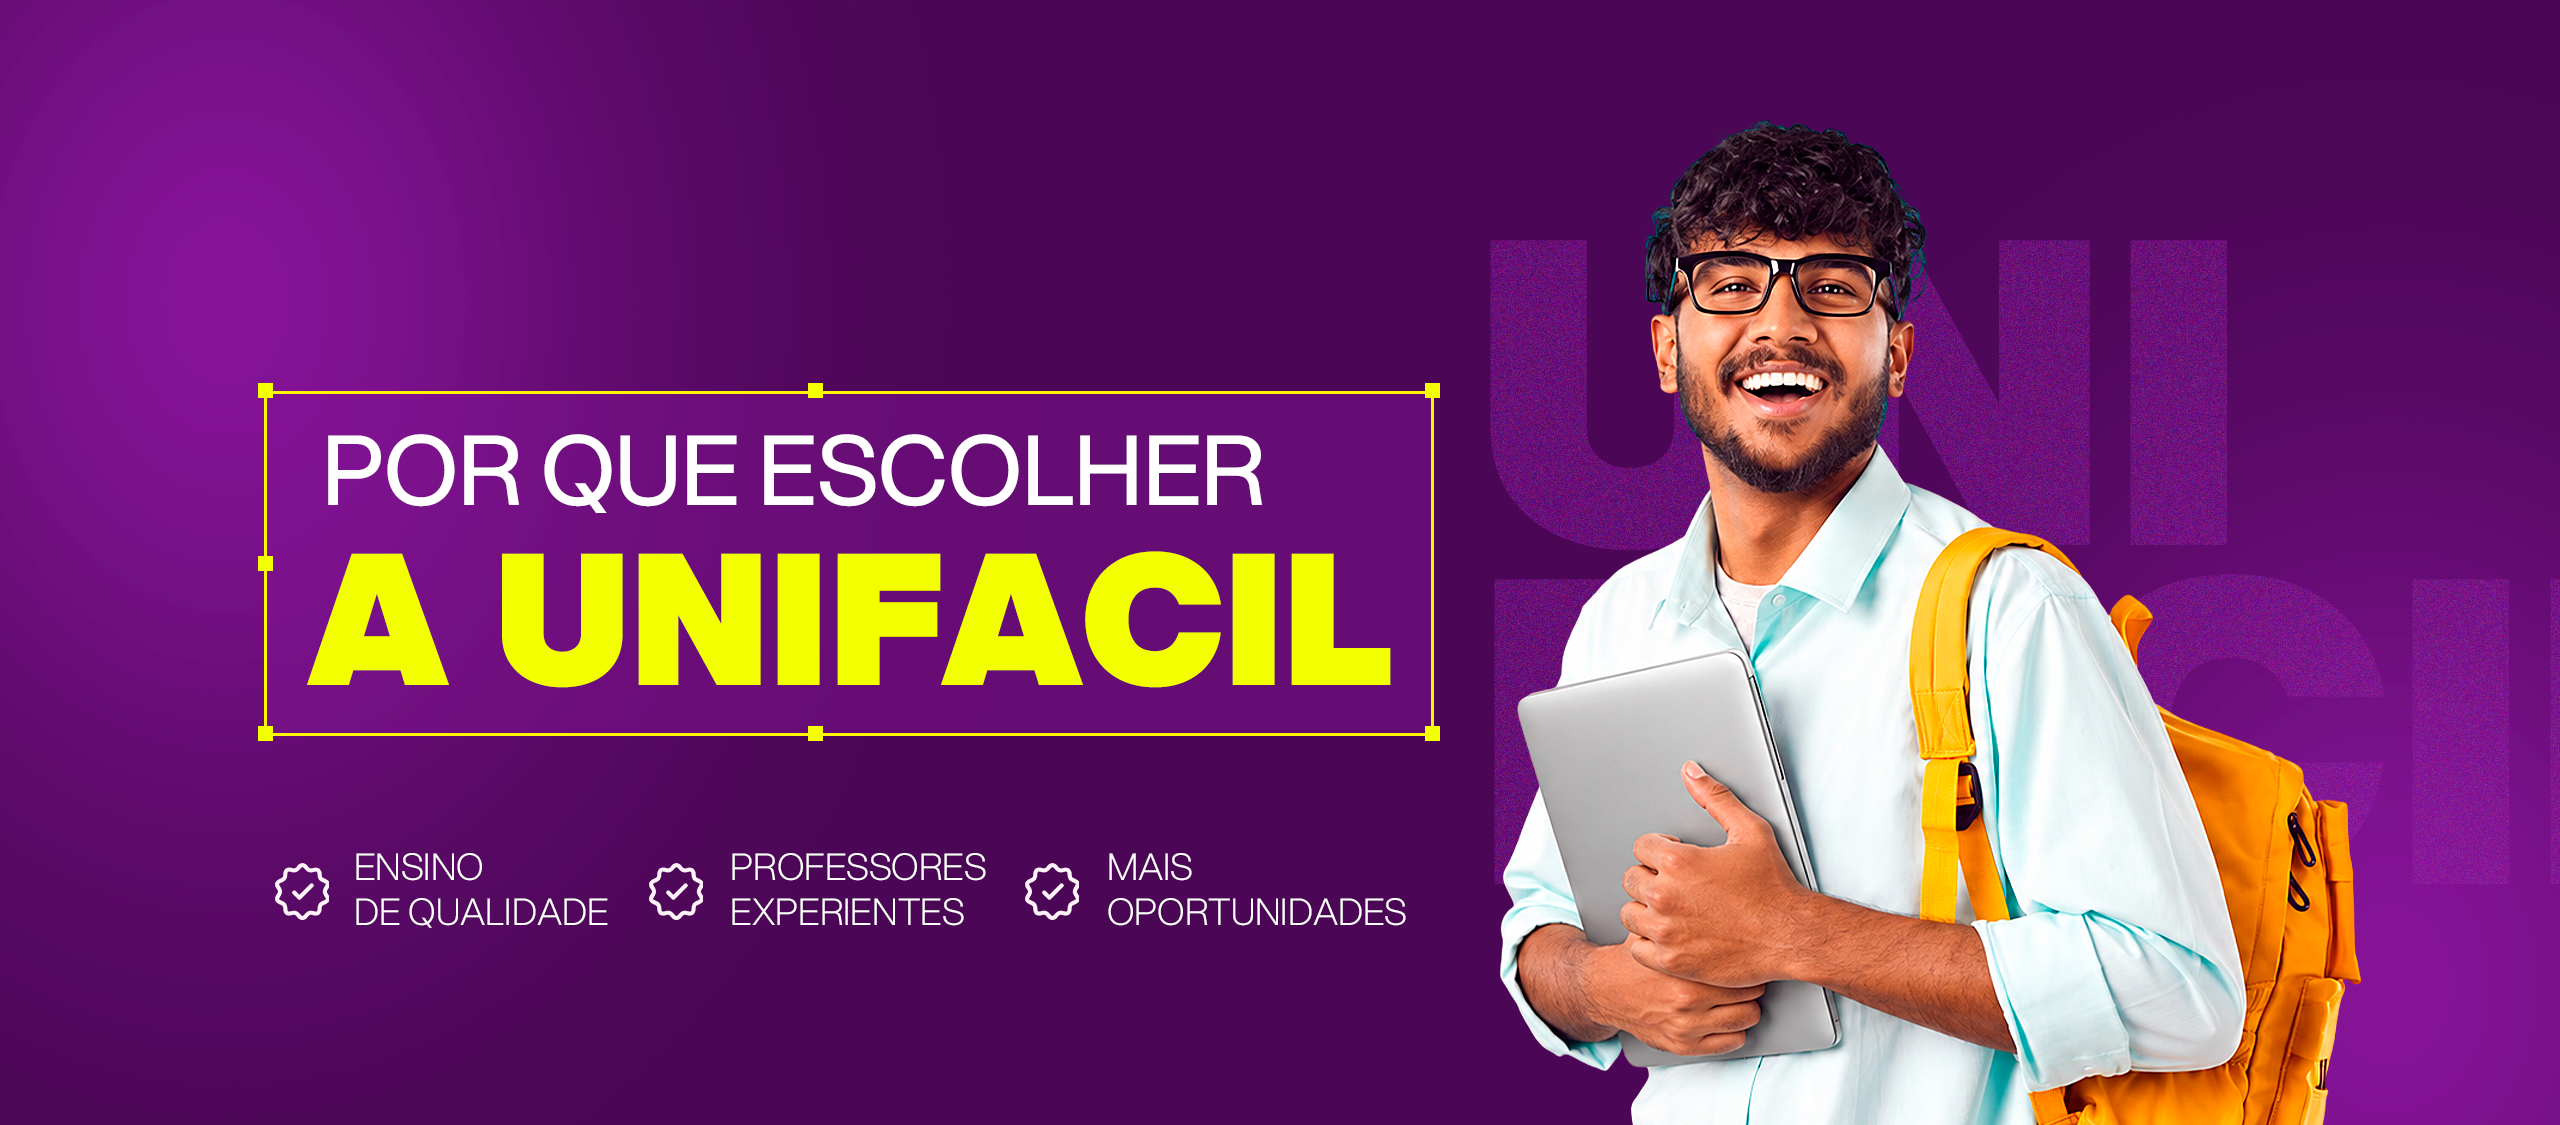
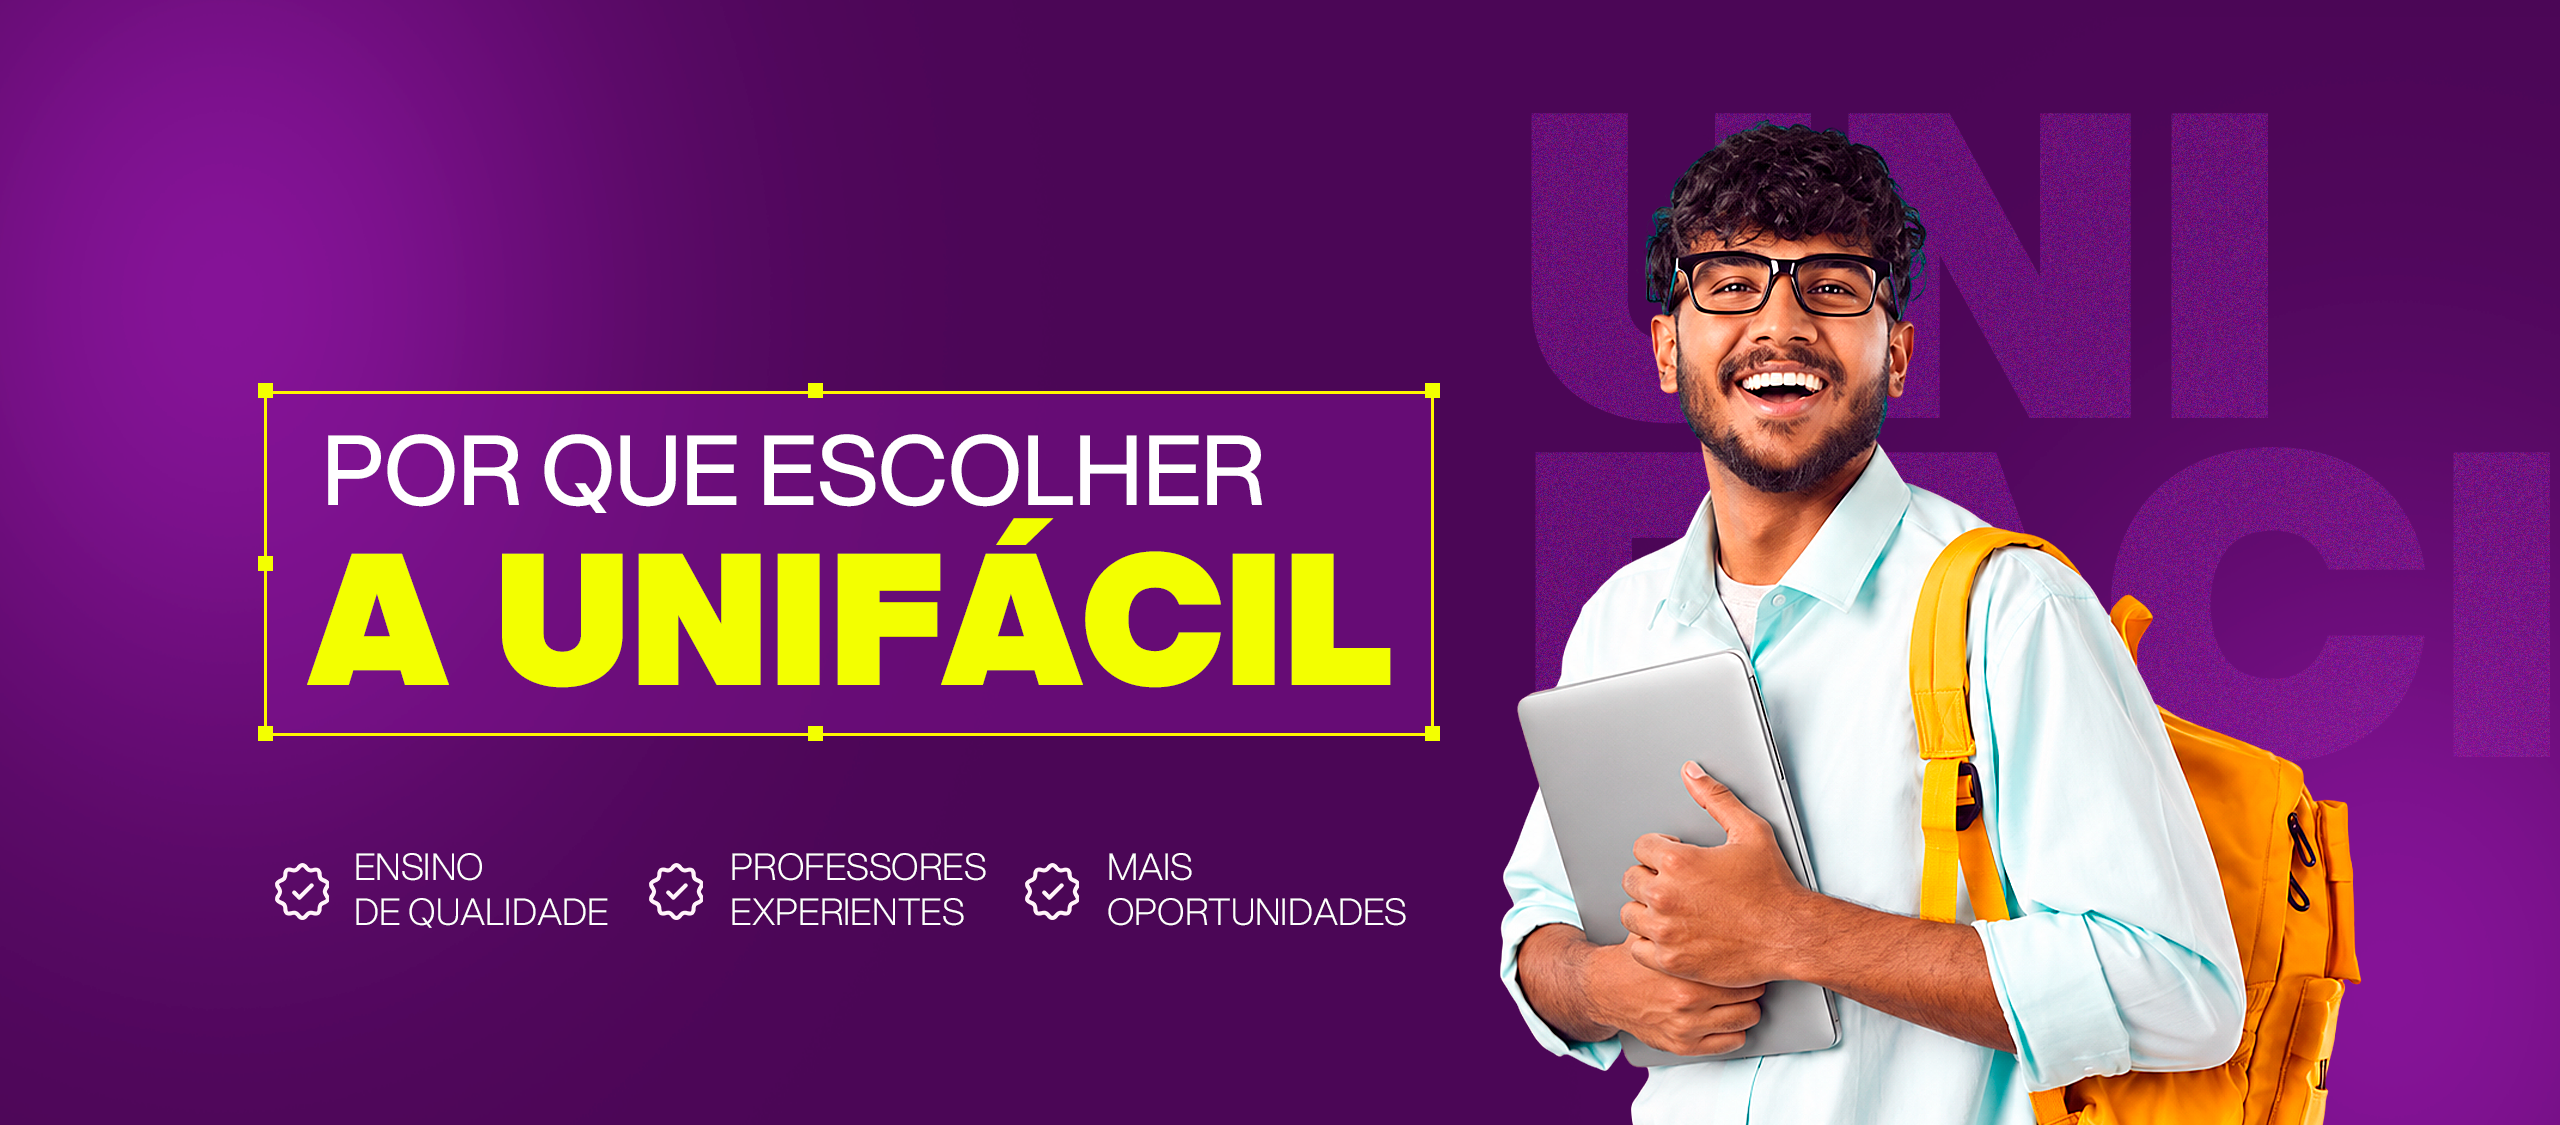
capacursos

Changed region(s): [[0.5625, 0.0933, 1.0, 0.7778], [0.375, 0.4667, 0.4062, 0.4978]]

diff --git a/components/PorQueEscolher.tsx b/components/PorQueEscolher.tsx
@@ -153,7 +153,7 @@ export default function PorQueEscolher() {
         <div className="relative z-[2] mt-6 hidden justify-center sm:flex sm:h-[380px] lg:absolute lg:inset-y-0 lg:left-[50%] lg:right-[16.5%] lg:mt-0 lg:block lg:h-auto lg:w-auto">
           <div className="relative h-[300px] w-[230px] sm:h-full sm:w-full lg:h-full lg:w-full">
             <Image
-              src="/images/pessoacard-transparente.webp"
+              src="/images/persona.webp"
               alt=""
               fill
               sizes="(max-width: 1024px) 60vw, 34vw"
